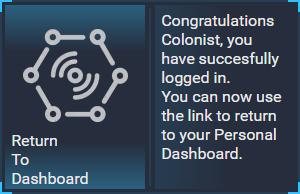
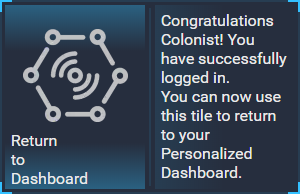
Custom is now called Personalized
Instead of saying 'custom dashboard', it's personalized.

diff --git a/src/app/link-tile-grid/link-tile-grid.component.html b/src/app/link-tile-grid/link-tile-grid.component.html
@@ -10,10 +10,10 @@
 	<section class="linkTile">
 			<figure class="icon">
 				<img src="../../assets/images/CustomDashboard.png" alt="A hexagon made out of simplified keys with a wifi symbol in the center">
-				<figcaption class="flourishFont">Enable<br>Custom<br>Dashboard</figcaption>
+				<figcaption class="flourishFont">Enable<br>Personalized<br>Dashboard</figcaption>
 			</figure>
 			<aside>
-				To enable your customized dashboard, please log in here.<br>If you already have, the system can't identify you.
+				To enable your personalized dashboard, please log in here.<br>If you already have, the system can't identify you.
 			</aside>
 	</section>
 </div>
